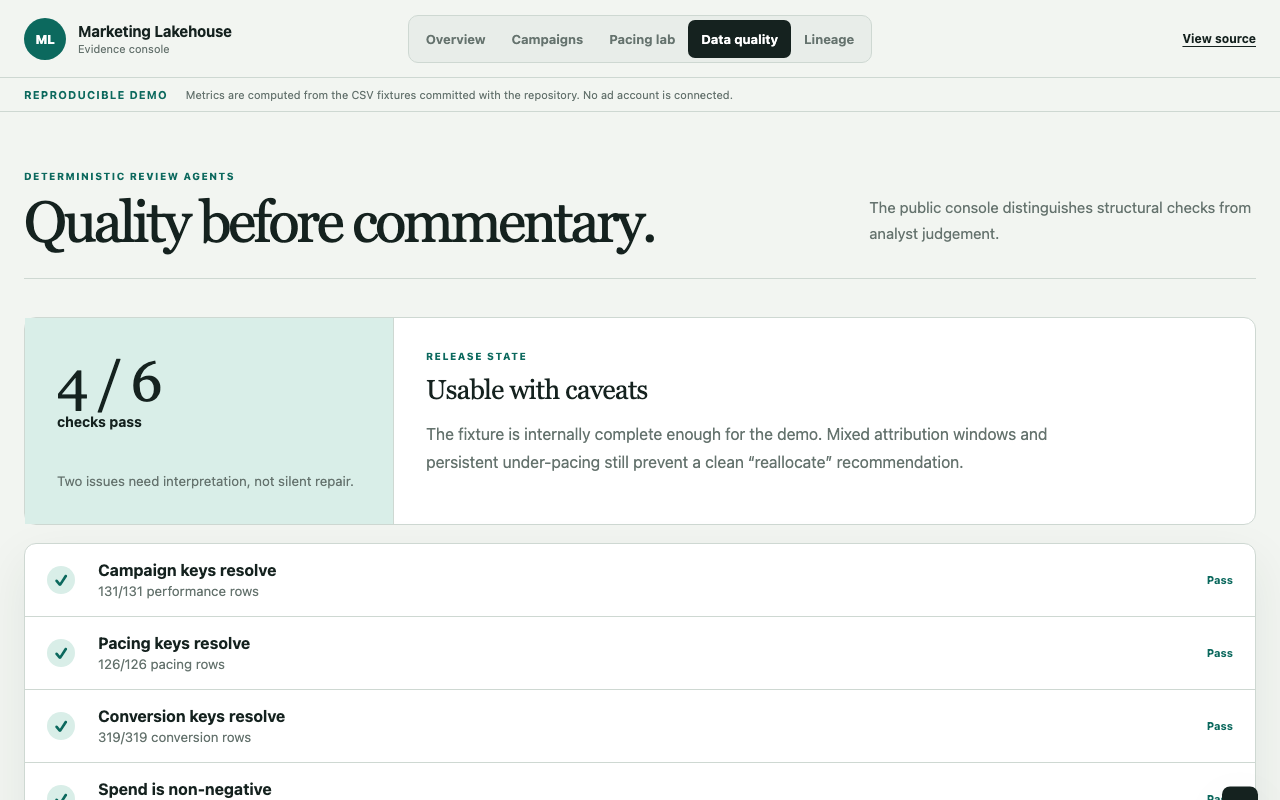
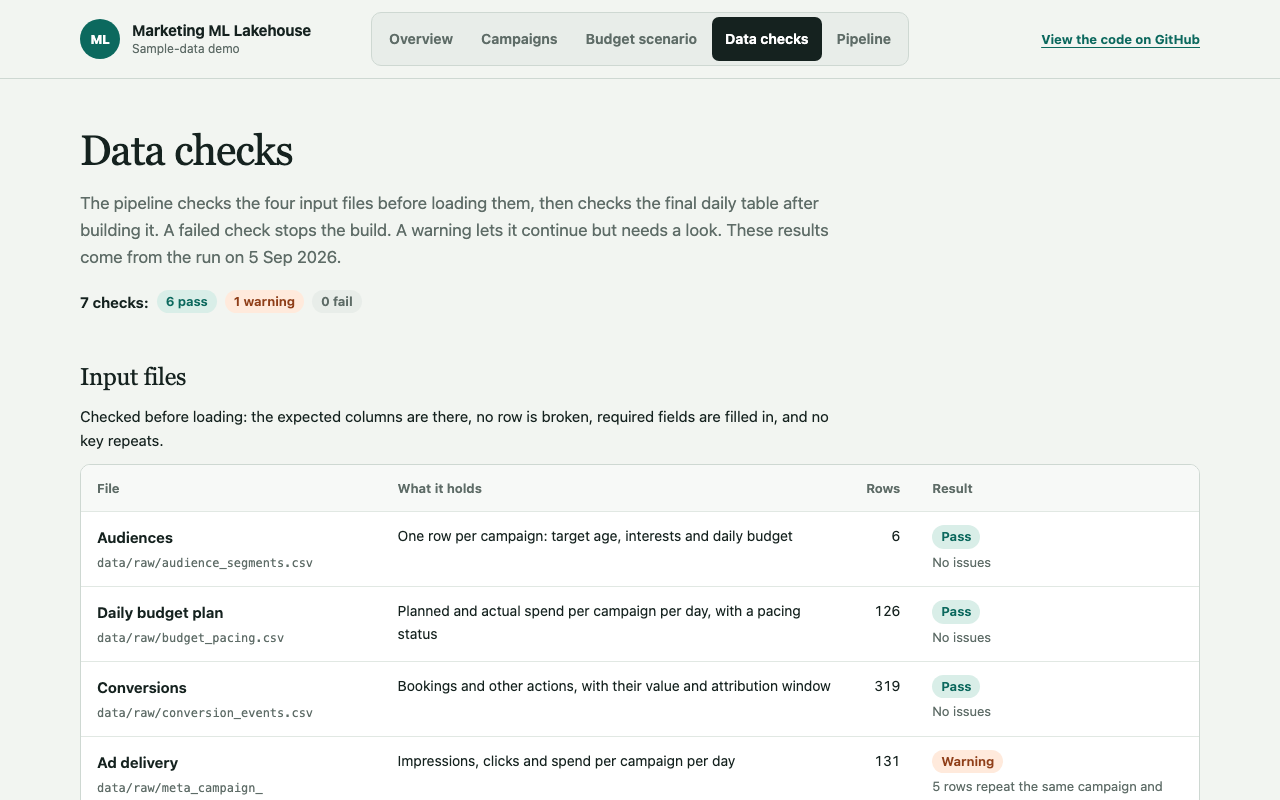
fix(catalogue): fresh Winchester and Lakehouse screenshots with matching text
- Recapture both catalogue images from the refined apps (same states as
  scripts/capture-catalogue-evidence.mjs) and update the capture manifest.
- The lakehouse card said two warnings; the data checks show seven checks,
  six pass and one warning. Say that.
- Plain words in the Winchester preview: made-up homes, not seeded.

diff --git a/store/work/index.html b/store/work/index.html
@@ -151,7 +151,7 @@
             <div class="app-cover app-cover--photo" data-cover="housing">
               <img class="app-cover-photo" src="../assets/photography/housing.jpg" width="1200" height="901" alt="" aria-hidden="true" loading="lazy" decoding="async" />
               <div class="app-cover-screen">
-                <img src="../assets/winchester-shortlist.png" width="1280" height="800" alt="Actual Winchester demo with the under £425k filter applied to seeded homes" loading="lazy" decoding="async" />
+                <img src="../assets/winchester-shortlist.png" width="1280" height="800" alt="Winchester Buyer Check with the Under £425k filter: made-up homes listed with price, station walk and fit score" loading="lazy" decoding="async" />
               </div>
             </div>
             <div class="work-card-copy">
@@ -168,14 +168,14 @@
           <article class="work-card app-card image-card" data-catalogue-item data-mode="browser local" data-slug="lakehouse" data-category="data" data-status="Public" data-problem="A notebook hides the source contracts and data checks needed to reproduce an analysis" data-solves="Rebuilds campaign files into checked reporting tables" data-proof="Public console built from generated evidence; next-day model evaluated against a prior-day baseline">
             <div class="app-cover" data-cover="lakehouse">
               <div class="app-cover-screen">
-                <img src="../assets/lakehouse-quality.png" width="1280" height="800" alt="Actual lakehouse browser example with sample data checks and two review warnings" loading="lazy" decoding="async" />
+                <img src="../assets/lakehouse-quality.png" width="1280" height="800" alt="Marketing ML Lakehouse data checks: seven checks on made-up sample data, six pass and one warning" loading="lazy" decoding="async" />
               </div>
             </div>
             <div class="work-card-copy">
               <h3>Marketing ML Lakehouse</h3>
               <p class="work-access">Try in your browser. Python to rebuild it.</p>
               <p>For analysts and data engineers: turn raw ad-campaign files into checked reporting tables, and test whether a forecast beats a simple guess.</p>
-              <dl class="work-card-proof" aria-label="Example and boundary"><div><dt>Try this</dt><dd>Open the data checks and look at the two warnings, then follow the guide to rebuild it in Python.</dd></div><div><dt>Limits</dt><dd>Made-up sample data. The next-day forecast does no better than assuming tomorrow matches today.</dd></div></dl>
+              <dl class="work-card-proof" aria-label="Example and boundary"><div><dt>Try this</dt><dd>Open the data checks: six pass and one warns about five repeated rows. Then follow the guide to rebuild it in Python.</dd></div><div><dt>Limits</dt><dd>Made-up sample data. The next-day forecast does no better than assuming tomorrow matches today.</dd></div></dl>
               <a class="work-launch" href="https://matthewpaver.github.io/marketing-ml-lakehouse/#quality">Open the data checks</a>
               <a class="project-link" href="../preview.html?app=lakehouse">How it works</a>
               <details class="work-first-steps"><summary>First steps</summary><ol><li>Open Data quality in the browser example.</li><li>Follow the <a href="https://github.com/MatthewPaver/marketing-ml-lakehouse/blob/main/DEMO.md">published walkthrough</a> to rebuild the example data and model.</li><li>Open the local Streamlit dashboard to inspect those outputs.</li></ol><p>No ad account needed. The sample data cannot show whether a campaign worked.</p></details>

diff --git a/store/index.html b/store/index.html
@@ -128,7 +128,7 @@
               <details class="video-transcript"><summary>What happens in this demo?</summary><p id="quicksupply-transcript">A school requests supply cover, an agency manages the request and assigns a teacher, and the teacher can review the assignment. The separate role-based dashboards share the booking status. This is a recorded case study, not a live staffing service.</p></details>
             </div>
             <div class="screening-panel" data-screening-panel="lakehouse" hidden>
-              <a class="screening-media" href="./preview.html?app=lakehouse"><img src="./assets/lakehouse-quality.png" width="1280" height="800" alt="Marketing ML Lakehouse browser example showing fixed sample data checks and two review warnings" loading="lazy" /></a>
+              <a class="screening-media" href="./preview.html?app=lakehouse"><img src="./assets/lakehouse-quality.png" width="1280" height="800" alt="Marketing ML Lakehouse data checks: seven checks on made-up sample data, six pass and one warning" loading="lazy" /></a>
               <div class="screening-caption"><div><strong>Check the data before trusting the forecast.</strong><span>Marketing ML Lakehouse: data pipeline you can rebuild</span></div><a href="./preview.html?app=lakehouse">See how it works <svg class="action-arrow" viewBox="0 0 24 24" aria-hidden="true"><path d="M7 17 17 7M7 7h10v10" /></svg></a></div>
             </div>
             <p class="screening-error" role="status" hidden>Video unavailable. <a href="./assets/quicksupply-demo.m4v">Download the recording</a> or <a href="./preview.html?app=quicksupply">read the case study</a>.</p>
